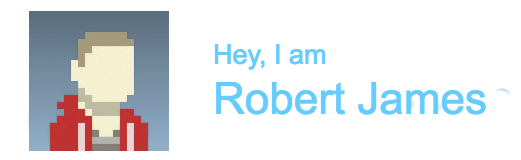
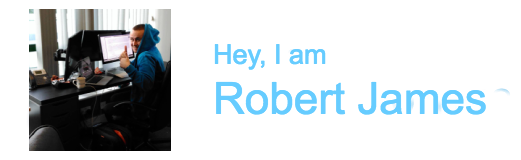
New images

Changed region(s): [[0.0307, 0.0312, 0.3378, 0.9688]]

diff --git a/source/cli.js b/source/cli.js
@@ -1,11 +1,15 @@
 #!/usr/bin/env node
+
 'use strict';
 const path = require('path');
 const meow = require('meow');
 const termImg = require('term-img');
 const terminalImage = require('terminal-image');
 const importJsx = require('import-jsx');
-const {h, render} = require('ink');
+const {
+	h,
+	render
+} = require('ink');
 
 const ui = importJsx('./ui');
 
@@ -19,6 +23,8 @@ const fallback = async () => {
 	console.log(image);
 };
 
-termImg(path.join(__dirname, 'avatar.png'), {fallback});
+termImg(path.join(__dirname, 'avatar.png'), {
+	fallback
+});
 
 render(h(ui));

diff --git a/source/ui.js b/source/ui.js
@@ -34,7 +34,7 @@ const items = [{
 },
 {
 	label: 'Blog',
-	url: 'https://medium.com/@RobertJGabriel'
+	url: 'https://blog.robertgabriek.ninja'
 },
 {
 	label: 'Contact',

diff --git a/README.md b/README.md
@@ -4,13 +4,12 @@
 
 <img src="screenshot.png" width="752">
 
-
 ## Usage
 
 Install Node.js, then:
 
-```
-$ npx robertgabriel
+```js
+npx robertgabriel
 ```
 
 
@@ -20,6 +19,4 @@ $ npx robertgabriel
 - [terminal-image](https://github.com/sindresorhus/terminal-image) - Display images in the terminal
 
 
-
-
-All credit goes to Sindre Sorhus](https://sindresorhus.com) for the idea.
+All credit goes to [Sindre Sorhus](https://sindresorhus.com) for the idea.
